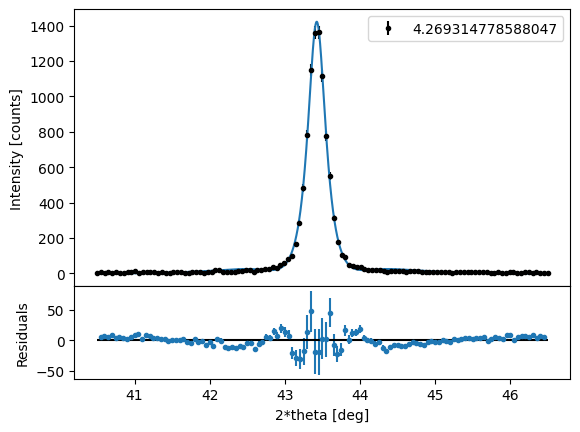
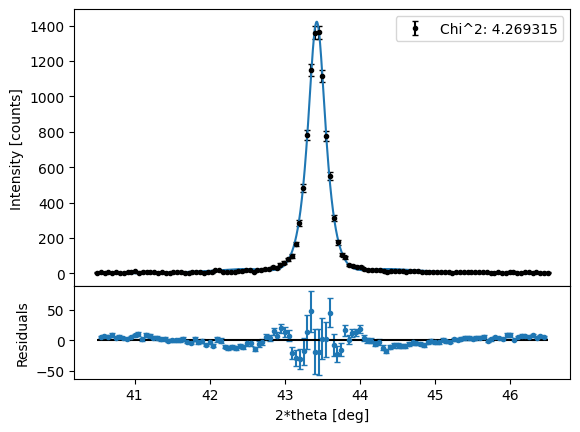
added caps to error bars and clarified legend

diff --git a/readData.py b/readData.py
@@ -56,14 +56,14 @@ def fit_and_plot(lim, p0, plot = True, plot_savepath=None):
         fig, ax = plt.subplots(nrows=2, ncols = 1, gridspec_kw={'height_ratios': [3,1]})
         plt.subplots_adjust(hspace=0)
 
-        ax[0].errorbar(clip_dat[0], clip_dat[1], yerr = errs, color = "k", linestyle = "", marker = ".", label = str(chi))
+        ax[0].errorbar(clip_dat[0], clip_dat[1], yerr = errs, color = "k", linestyle = "", marker = ".", label = "Chi^2: %f"%(chi), capsize=2)
         ax[0].plot(thet_linspace, fit_linsp)
         # ax[0].plot(thet2, gaus(thet2, pars[0], pars[3],pars[4]) + pars[5], label = "gaussian")
         # ax[0].plot(thet2, lor(thet2, pars[1], pars[2], pars[3]) + pars[5], label ="lor", color = "red")
         ax[0].set_ylabel("Intensity [counts]")
         ax[0].legend()
 
-        ax[1].errorbar(clip_dat[0], res, yerr = errs, ls = " ", marker = ".")
+        ax[1].errorbar(clip_dat[0], res, yerr = errs, ls = " ", marker = ".", capsize=2)
         ax[1].set_xlabel("2*theta [deg]")
         ax[1].set_ylabel("Residuals")
         ax[1].hlines(xmin = lim[0], xmax = lim[1], y = 0, color = "k")
